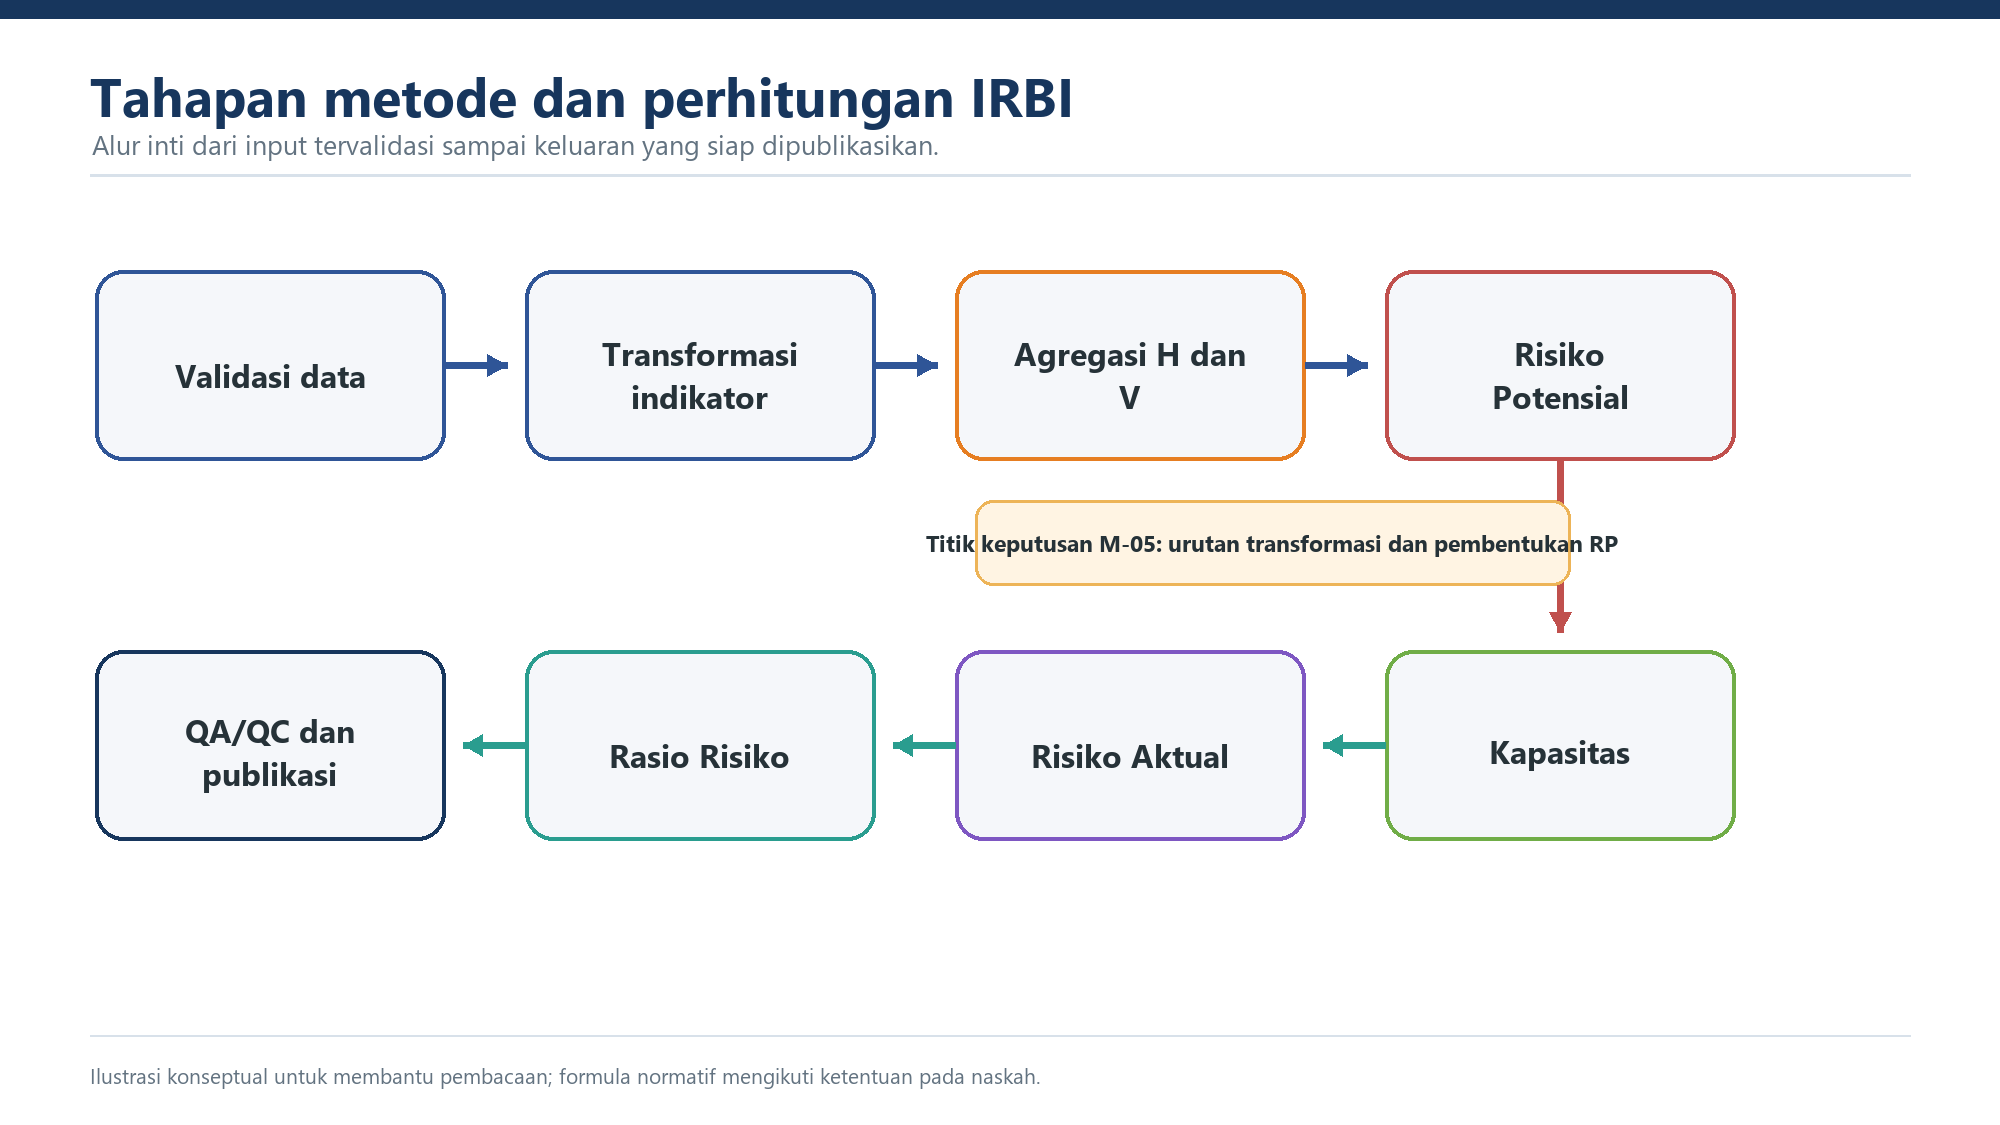
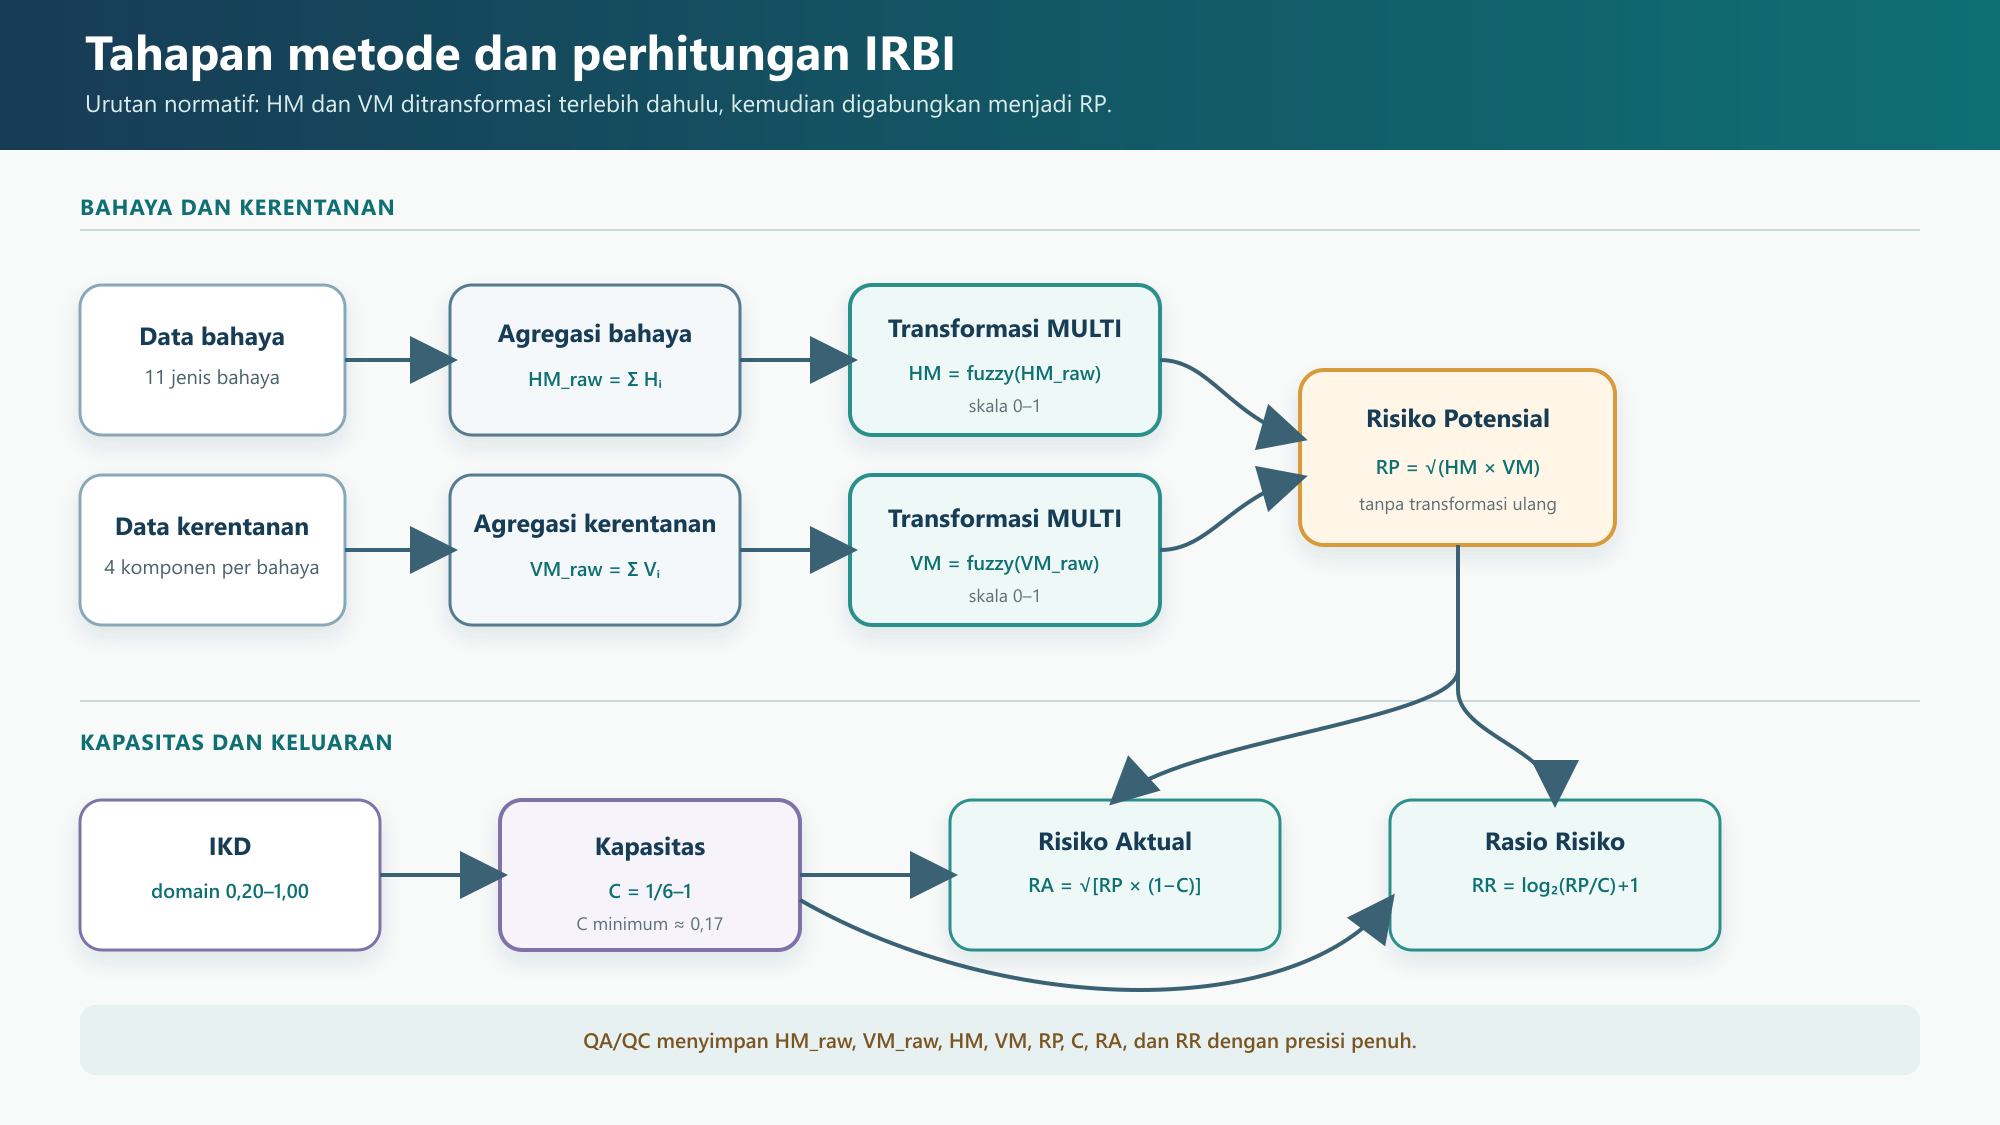
Resolve IRBI methodology issues M-01 through M-06

diff --git a/styles.css b/styles.css
@@ -83,6 +83,7 @@ thead { background: rgba(15,111,115,.09); }
 .issue-card { border: 1px solid var(--irbi-border); border-left: 5px solid var(--irbi-gold); border-radius: 12px; padding: 1rem 1.25rem; margin: 1rem 0; background: var(--bs-body-bg); box-shadow: 0 5px 18px rgba(18,59,74,.05); }
 .issue-card.severity-kritis { border-left-color: var(--irbi-red); }
 .issue-card.severity-sedang { border-left-color: var(--irbi-aqua); }
+.issue-card.status-selesai { border-left-color: #2f8f68; background: linear-gradient(135deg, rgba(47,143,104,.06), var(--bs-body-bg)); }
 .issue-card h3 { margin: .55rem 0 .65rem; }
 .issue-head { display: flex; flex-wrap: wrap; align-items: center; gap: .45rem; }
 .issue-id { font-weight: 800; color: var(--irbi-ink); margin-right: .2rem; }
@@ -91,6 +92,7 @@ thead { background: rgba(15,111,115,.09); }
 .severity-badge.tinggi { color: #81530f; background: #fff0d2; }
 .severity-badge.sedang { color: #12686b; background: #ddf3f1; }
 .status-badge { color: #4f6167; background: #edf1f2; }
+.status-badge.selesai { color: #1f684c; background: #dff3e9; }
 
 .callout { border-radius: 12px; }
 .sidebar nav[role=doc-toc] ul > li > a.active { border-left-color: var(--irbi-teal); color: var(--irbi-teal) !important; }

diff --git a/README.md b/README.md
@@ -1,6 +1,6 @@
 # Petunjuk Teknis Reformulasi IRBI Nasional — Situs Quarto
 
-Situs dokumentasi multi-halaman untuk "Petunjuk Teknis Reformulasi Indeks Risiko Bencana (IRBI) Nasional", dibangun dengan [Quarto](https://quarto.org). Versi dashboard 0.8 berisi delapan bab, delapan lampiran operasional, enam ilustrasi konsep/alur, dan register berisi 18 isu metodologis terbuka. Situs ini merupakan ruang kerja penyusunan juknis dan belum menyajikan dashboard hasil IRBI nasional per wilayah.
+Situs dokumentasi multi-halaman untuk "Petunjuk Teknis Reformulasi Indeks Risiko Bencana (IRBI) Nasional", dibangun dengan [Quarto](https://quarto.org). Versi dashboard 0.8 berisi delapan bab, delapan lampiran operasional, enam ilustrasi konsep/alur, dan register berisi 18 isu metodologis: 12 terbuka dan 6 selesai. Situs ini merupakan ruang kerja penyusunan juknis dan belum menyajikan dashboard hasil IRBI nasional per wilayah.
 
 ## Struktur proyek
 
@@ -72,6 +72,6 @@ Perintah ini akan merender situs dan mem-push hasilnya ke branch `gh-pages` di r
 
 ## Catatan isi
 
-Dokumen ini berstatus **draf kerja, belum normatif**. Register mencatat 18 isu terbuka: 10 kritis, 7 tinggi, dan 1 sedang. Isu kritis antara lain Persamaan 11, definisi parameter kalibrasi, status data kosong, urutan transformasi RP, kondisi `C=0`, klasifikasi, kedudukan RA, identitas skenario, satuan input, dan penggabungan data wilayah.
+Dokumen ini berstatus **draf kerja, belum normatif**. Enam butir telah diselesaikan. Selain koreksi formula, kalibrasi, dan daftar 11 bahaya, M-05 menetapkan bahwa HM dan VM ditransformasi terlebih dahulu sebelum membentuk `RP=sqrt(HM*VM)`. M-06 menetapkan domain IKD 0,20-1,00, sehingga C minimum adalah 1/6 atau sekitar 0,17 dan `C=0` tidak mungkin pada input sah. Register masih memuat 12 isu terbuka, termasuk 5 isu kritis mengenai klasifikasi, kedudukan RA, identitas skenario, satuan input, dan penggabungan data wilayah.
 
-Formula pada contoh Aceh Selatan diberi label **reproduksi workbook**. Kecocokan numerik dengan workbook tidak diperlakukan sebagai pengesahan satuan input, urutan metode, klasifikasi, atau status kebijakan keluaran.
+Contoh Aceh Selatan menggunakan urutan normatif M-05. Komponen input tetap direkonsiliasi dengan workbook, sedangkan perbedaan kecil pada RP, RA, dan RR terhadap keluaran workbook lama dicatat sebagai dampak perubahan urutan transformasi.
